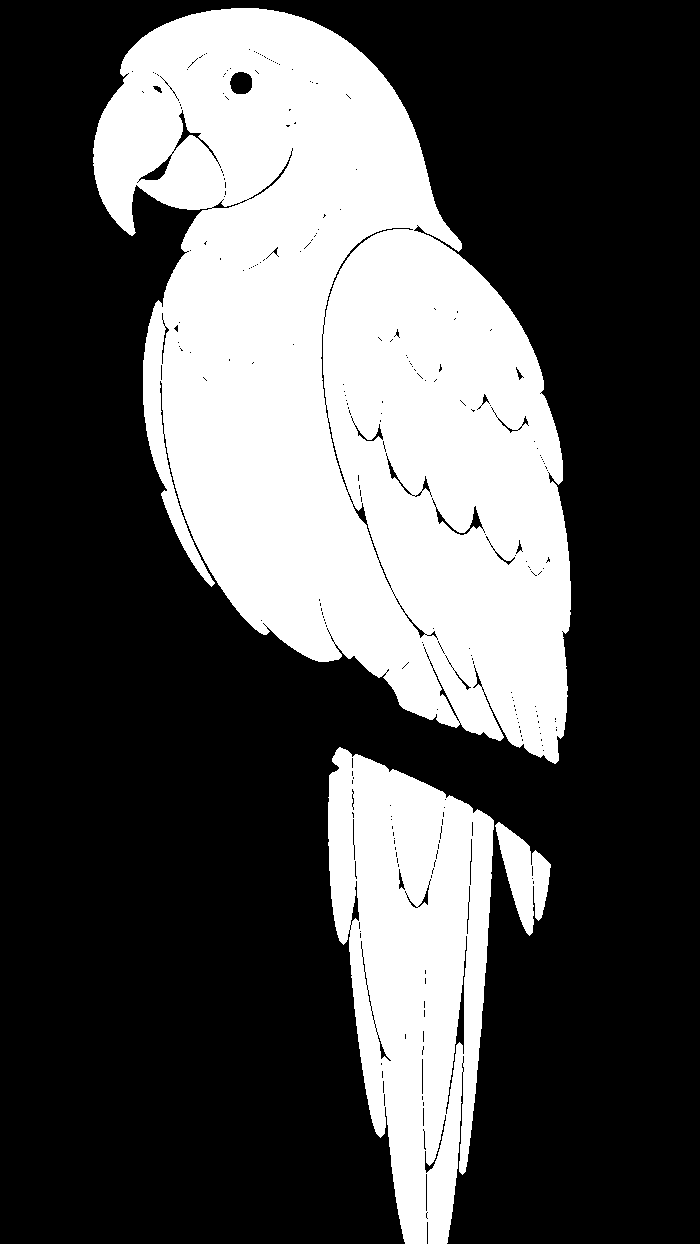
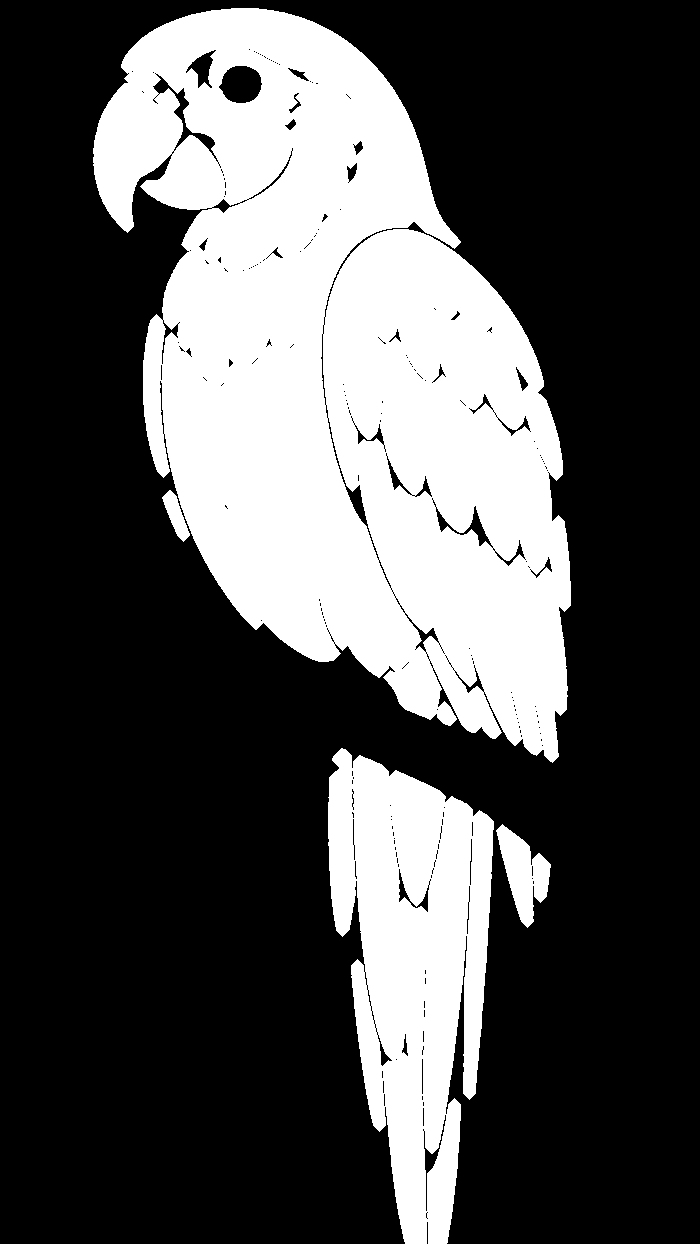
실험 2: 사진 깃털 염색 + 축 기준 회전, 그림 선 기준 부위 인식, 눈꺼풀 수정
Claude-Session: https://claude.ai/code/session_013nsqfN2pmowfE43H4ZnkZX

diff --git a/lab2/index.html b/lab2/index.html
@@ -94,7 +94,7 @@ body.on-cover .brand{visibility:hidden}
 
 /* 웹: 왼쪽에서 깃털 부채가 들어오며 펼쳐지고, 오른쪽에 질문과 부위 그림 */
 .q{height:calc(100svh - 102px); grid-template-columns:minmax(0,.9fr) minmax(0,1.1fr); grid-template-rows:auto minmax(0,1fr); grid-template-areas:"q opts" "fig opts"; column-gap:clamp(16px,3vw,48px)}
-.zone-opts{grid-area:opts; height:calc(100svh - 102px); margin-right:calc(var(--g) * -1); overflow-y:auto; overflow-x:hidden; scrollbar-width:none}
+.zone-opts{grid-area:opts; height:calc(100svh - 102px); margin-right:calc(var(--g) * -1); overflow:visible; touch-action:none; outline:none}
 .zone-opts::-webkit-scrollbar{display:none}
 .fanwrap{position:relative; width:100%}
 .zone-q{grid-area:q; padding-top:4svh}
@@ -109,16 +109,20 @@ body.on-cover .brand{visibility:hidden}
 }
 
 /* 깃털: 한 다발로 모여 왼쪽 밖에 있다가(.out) 들어오며 방사형으로 펼쳐짐(.open) */
-.plume{position:absolute; transform-origin:0 50%; pointer-events:none;
+.plume{position:absolute; transform-origin:0 50%; pointer-events:none; transition-property:transform,opacity;
   transform:translate(var(--ox,0), var(--oy,0)) rotate(var(--c)); opacity:0;
   transition:transform .95s cubic-bezier(.22,.8,.18,1), opacity .5s ease; filter:drop-shadow(0 6px 16px rgba(0,0,0,.7))}
 .plume.open{transform:translate(0,0) rotate(var(--r)); opacity:1}
 .plume.open.hov{transform:translate(0,0) rotate(var(--r)) scale(1.04); filter:drop-shadow(0 8px 22px rgba(0,0,0,.7)) brightness(1.18); z-index:30}
 .plume svg{width:100%; height:100%; display:block; overflow:visible}
 .plume .hit{pointer-events:visiblePainted; cursor:pointer}
-.plume .lab{position:absolute; left:100%; top:50%; white-space:nowrap; font-size:15px; font-weight:900; text-shadow:0 1px 8px #000;
+.plume .lab{position:absolute; left:calc(100% + 6px); top:50%; white-space:nowrap; font-size:15px; font-weight:900; text-shadow:0 1px 8px #000;
   transform-origin:0 50%; transform:translate(8px,-50%) rotate(calc(var(--r) * -1)); opacity:0; transition:opacity .3s; pointer-events:auto; cursor:pointer}
-.plume.open .lab{opacity:1; transition-delay:.6s}
+.plume.open .lab{opacity:.55; transition-delay:.6s}
+.plume.focus .lab, .plume.hov .lab{opacity:1; color:var(--hl)}
+.plume.focus{z-index:20; filter:drop-shadow(0 6px 16px rgba(0,0,0,.7)) brightness(1.15)}
+.plume.open{transition-duration:.95s, .5s}
+.plume.open.ready{transition-duration:.12s, .3s}
 .plume.short{z-index:2}
 .plume.hov .lab{color:var(--hl)}
 
@@ -336,7 +340,7 @@ function birdVec(a, o = {}){
 /* ───────── 주 그림: 제공된 앵무새 선화(bird/line.png)를 부위별 마스크로 칠한다 ───────── */
 const BW = 700, BH = 1244;
 const RPARTS = ["belly","breast","throat","back","crown","face","forehead","wing","tail","beak","cere","eye"];
-const RFOCUS = { all:[0,0,700,1244], crown:[170,0,250,130], forehead:[110,30,130,110], face:[190,40,150,170], cheek:[230,110,110,90],
+const RFOCUS = { all:[0,0,700,1244], crown:[160,0,280,130], forehead:[100,20,140,120], face:[180,40,160,170], cheek:[230,110,110,90],
   throat:[160,180,180,130], collar:[160,180,180,130], breast:[120,220,240,260], belly:[150,460,250,240], back:[290,80,180,180],
   wing:[320,220,250,540], tail:[320,740,230,504], beak:[80,70,150,170], eyeskin:[200,40,90,90], crest:[200,-30,260,170] };
 (function defs(){
@@ -382,7 +386,7 @@ function birdSVG(a, o = {}){
     ${cheekC ? `<ellipse class="rg" data-part="cheek" cx="282" cy="158" rx="34" ry="26" fill="${cheekC}"/>` : ""}
     ${skinC ? `<ellipse class="rg" data-part="eyeskin" cx="241" cy="84" rx="${A.eyeSkin === "face" && !neutral ? 62 : 34}" ry="${A.eyeSkin === "face" && !neutral ? 55 : 32}" fill="${skinC}" mask="url(#bm-face)"/>` : ""}
     <image href="bird/${neutral ? "line" : "line-dark"}.png" width="${BW}" height="${BH}"/>
-    <g class="lid" style="transform-origin:241px 84px"><ellipse cx="241" cy="84" rx="21" ry="20" fill="${neutral ? "#000" : (col("face") || "#2a2a28")}"/><path d="M220 86 Q241 98 262 86" fill="none" stroke="${ink}" stroke-width="4" stroke-linecap="round"/></g>
+    <g class="lid" style="transform-origin:241px 84px"><ellipse cx="241" cy="84" rx="25" ry="23" fill="${neutral ? (on("face") ? paint : (allOn ? paint : "#000")) : (col("face") || col("main") || "#2a2a28")}"/><path d="M217 84 Q241 102 265 84" fill="none" stroke="${ink}" stroke-width="5" stroke-linecap="round"/></g>
   </g>
 </svg>`;
 }
@@ -455,47 +459,69 @@ function plumeSVG(color, seed){
   <path class="hit" d="${vane}" fill="transparent"/>
 </svg>`;
 }
-// 부채: 웹은 오른쪽 가장자리 가운데가 축, 폰은 바닥 가운데가 축. 긴 깃과 짧은 깃이 번갈아 두 겹.
-function fanGeom(n, box){
-  const W = box.width, H = box.height, m = mobile();
-  const R = m ? Math.min(H * .95, W * .62) : Math.min(H * .62, W * 1.05);
-  const step = m ? 15 : 13.5;                                // 깃털 사이 각도 (넉넉하게)
-  const span = step * (n - 1);
-  const center = m ? -90 : 180;
-  const angles = [...Array(n)].map((_, i) => n === 1 ? center : center - span / 2 + step * i);
-  const lens = angles.map((_, i) => i % 2 ? R * .8 : R);
-  // 웹: 부채가 위아래로 넘치면 그만큼 세로 공간을 늘리고 스크롤
-  const reach = Math.max(...angles.map((a, i) => Math.abs(Math.sin(a * Math.PI / 180)) * lens[i])) + R * .12;
-  const fullH = m ? H : Math.max(H, reach * 2 + 40);
-  const pivot = m ? { x:W / 2, y:H + 6 } : { x:W + 4, y:fullH / 2 };
-  return { pivot, R, lens, h:R * .23, angles, center, fullH };
+// 사진에서 오려낸 진짜 깃털(feather.png)을 색으로 염색한다
+function dyedFeather(color, i, ghost){
+  const id = "dye" + (uid++);
+  return `<svg viewBox="-150 0 682 106" preserveAspectRatio="none" aria-hidden="true">
+    <defs><filter id="${id}" color-interpolation-filters="sRGB"><feFlood flood-color="${ghost ? "#666" : color}"/>
+      <feComposite in2="SourceGraphic" operator="arithmetic" k1="1.15" k2=".18"/><feComposite in2="SourceGraphic" operator="in"/></filter></defs>
+    <path d="M-150 53 L10 53" stroke="#cfc8b8" stroke-width="3" stroke-linecap="round" opacity=".8"/>
+    <image href="feather.png" x="0" y="0" width="532" height="106" filter="url(#${id})" ${ghost ? 'opacity=".45"' : ""}/>
+    <path class="hit" d="M-150 40 L0 40 C200 0 480 4 532 53 C480 102 200 106 0 66 L-150 66 Z" fill="transparent"/>
+  </svg>`;
 }
+// 부채: 웹은 오른쪽 가장자리 가운데가 축(깃털이 왼쪽을 향함), 폰은 바닥 가운데가 축(위를 향함).
+// 휠·드래그로 축을 중심으로 부채를 돌린다. 가운데 온 깃털이 강조된다.
 function buildFan(box, items, onPick, onHover){
-  const g = fanGeom(items.length, box.getBoundingClientRect());
-  let host = box;
-  if (!mobile()) { host = document.createElement("div"); host.className = "fanwrap"; host.style.height = g.fullH + "px"; box.appendChild(host);
-    requestAnimationFrame(() => { box.scrollTop = (g.fullH - box.clientHeight) / 2; }); }
-  const out = mobile() ? `${Math.round(innerHeight * .7)}px` : `${Math.round(g.R + 80)}px`;
-  return items.map((it, i) => {
+  const r = box.getBoundingClientRect(), m = mobile(), n = items.length;
+  const R = m ? Math.min(r.height * .95, r.width * .62) : Math.min(r.height * .66, r.width * 1.02);
+  const pivot = m ? { x:r.width / 2, y:r.height + 6 } : { x:r.width + 4, y:r.height / 2 };
+  const center = m ? -90 : 180, step = m ? 16 : 13, h = R * .155;
+  let pos = (n - 1) / 2, target = pos, raf = 0, last = -1, drag = null;
+  const els = items.map((it, i) => {
     const el = document.createElement("div"); el.className = "plume" + (i % 2 ? " short" : "");
-    const L = g.lens[i], h = g.h * (i % 2 ? .9 : 1);
-    Object.assign(el.style, { left:g.pivot.x + "px", top:(g.pivot.y - h / 2) + "px", width:L + "px", height:h + "px" });
-    el.style.setProperty("--r", g.angles[i] + "deg"); el.style.setProperty("--c", g.center + "deg"); el.style.setProperty(mobile() ? "--oy" : "--ox", out);
-    el.innerHTML = (it.ghost ? plumeSVG("#444444", i).replace('<svg ', '<svg style="opacity:.5" ') : plumeSVG(it.color, i * 13 + 5)) + `<span class="lab">${esc(it.label)}</span>`;
-    const pick = () => onPick(it, el), hov = on => { el.classList.toggle("hov", on); onHover && onHover(on ? it : null); };
+    const L = R * (i % 2 ? .84 : 1);
+    Object.assign(el.style, { left:pivot.x + "px", top:(pivot.y - h / 2) + "px", width:L + "px", height:h + "px" });
+    el.style.setProperty("--c", center + "deg"); el.style.setProperty(m ? "--oy" : "--ox", m ? `${Math.round(innerHeight * .7)}px` : `${Math.round(R + 80)}px`);
+    el.innerHTML = dyedFeather(it.color, i, it.ghost) + `<span class="lab">${esc(it.label)}</span>`;
+    const pick = () => { if (drag && drag.moved) return; onPick(it, el); };
     el.querySelector(".hit").addEventListener("click", pick); el.querySelector(".lab").addEventListener("click", pick);
+    const hov = on => { el.classList.toggle("hov", on); onHover && onHover(on ? it : null); };
     el.querySelector(".hit").addEventListener("pointerenter", () => hov(true)); el.querySelector(".hit").addEventListener("pointerleave", () => hov(false));
-    el.querySelector(".lab").addEventListener("pointerenter", () => hov(true)); el.querySelector(".lab").addEventListener("pointerleave", () => hov(false));
-    host.appendChild(el); return el;
+    box.appendChild(el); return el;
   });
+  function layout(){
+    els.forEach((el, i) => {
+      const a = center + (i - pos) * step, d = Math.abs(i - pos);
+      el.style.setProperty("--r", a + "deg");
+      el.style.visibility = d * step > 100 ? "hidden" : "";
+      el.classList.toggle("focus", d < .5);
+    });
+    const c = Math.round(pos);
+    if (c !== last) { last = c; onHover && onHover(items[c]); }
+  }
+  function tick(){ pos += (target - pos) * .16; if (Math.abs(target - pos) < .003) pos = target; layout(); raf = pos !== target ? requestAnimationFrame(tick) : 0; }
+  const go = t => { target = Math.max(0, Math.min(n - 1, t)); if (!raf) raf = requestAnimationFrame(tick); };
+  box.onwheel = e => { e.preventDefault(); go(Math.round(target) + Math.sign(e.deltaY || e.deltaX)); };
+  box.onpointerdown = e => { drag = { x:e.clientX, y:e.clientY, p:target, moved:false }; };
+  box.onpointermove = e => { if (!drag || e.buttons !== 1) return; const d = m ? (drag.x - e.clientX) : (e.clientY - drag.y);
+    if (Math.abs(d) > 6) drag.moved = true; if (drag.moved) { target = Math.max(0, Math.min(n - 1, drag.p + d / (R * step * Math.PI / 180))); pos = target; layout(); } };
+  box.onpointerup = () => { if (drag && drag.moved) go(Math.round(target)); setTimeout(() => drag = null, 0); };
+  box.tabIndex = 0;
+  box.onkeydown = e => { if (["ArrowUp","ArrowLeft"].includes(e.key)) { e.preventDefault(); go(Math.round(target) - 1); }
+    if (["ArrowDown","ArrowRight"].includes(e.key)) { e.preventDefault(); go(Math.round(target) + 1); }
+    if (e.key === "Enter") onPick(items[Math.round(target)], els[Math.round(target)]); };
+  layout();
+  return els;
 }
-function fanIn(els){ // 왼쪽에서 들어오며 펼쳐짐: 가운데 깃털부터 바깥쪽으로
+function fanIn(els){
   const mid = (els.length - 1) / 2;
   requestAnimationFrame(() => requestAnimationFrame(() => els.forEach((el, i) => { el.style.transitionDelay = Math.round(Math.abs(i - mid) * 35) + "ms"; el.classList.add("open"); })));
+  setTimeout(() => els.forEach(el => { el.style.transitionDelay = "0ms"; el.classList.add("ready"); }), 1300);
 }
-function fanOut(els){ // 다시 한 다발로 모이며 왼쪽 밖으로
+function fanOut(els){
   const mid = (els.length - 1) / 2;
-  els.forEach((el, i) => { el.classList.remove("hov"); el.style.transitionDelay = Math.round((mid - Math.abs(i - mid)) * 25) + "ms"; el.classList.remove("open"); });
+  els.forEach((el, i) => { el.classList.remove("ready"); el.classList.remove("hov"); el.style.transitionDelay = Math.round((mid - Math.abs(i - mid)) * 25) + "ms"; el.classList.remove("open"); });
 }
 
 /* ───────── 상태 ───────── */
@@ -513,13 +539,13 @@ function coverBirdSVG(){
     <g class="pb away">
       <rect class="hitbird" width="700" height="1244" fill="#000" mask="url(#bm-bird)"/>
       <image href="bird/line-bird.png" width="700" height="1244"/>
-      <g class="lid"><ellipse cx="241" cy="84" rx="21" ry="20" fill="#000"/><path d="M220 86 Q241 98 262 86" fill="none" stroke="#fff" stroke-width="4" stroke-linecap="round"/></g>
-      <g class="happy"><ellipse cx="241" cy="84" rx="22" ry="21" fill="#000"/><path d="M222 90 Q241 70 260 90" fill="none" stroke="#fff" stroke-width="5" stroke-linecap="round"/></g>
+      <g class="lid"><ellipse cx="241" cy="84" rx="25" ry="23" fill="#000"/><path d="M217 84 Q241 102 265 84" fill="none" stroke="#fff" stroke-width="5" stroke-linecap="round"/></g>
+      <g class="happy"><ellipse cx="241" cy="84" rx="25" ry="23" fill="#000"/><path d="M219 92 Q241 68 263 92" fill="none" stroke="#fff" stroke-width="5" stroke-linecap="round"/></g>
     </g></svg>`;
 }
 function peekSVG(){ // 머리만 잘라낸 그림
   return `<svg viewBox="90 0 380 330" aria-hidden="true"><rect width="700" height="1244" fill="#000" mask="url(#bm-bird)"/><image href="bird/line-bird.png" width="700" height="1244"/>
-    <g class="lid" style="transform-box:view-box;transform-origin:241px 84px;animation:lid 2.4s infinite"><ellipse cx="241" cy="84" rx="21" ry="20" fill="#000"/><path d="M220 86 Q241 98 262 86" fill="none" stroke="#fff" stroke-width="4"/></g></svg>`;
+    <g class="lid" style="transform-box:view-box;transform-origin:241px 84px;animation:lid 2.4s infinite"><ellipse cx="241" cy="84" rx="25" ry="23" fill="#000"/><path d="M217 84 Q241 102 265 84" fill="none" stroke="#fff" stroke-width="5"/></g></svg>`;
 }
 let coverRun = 0;
 function renderCover(){
